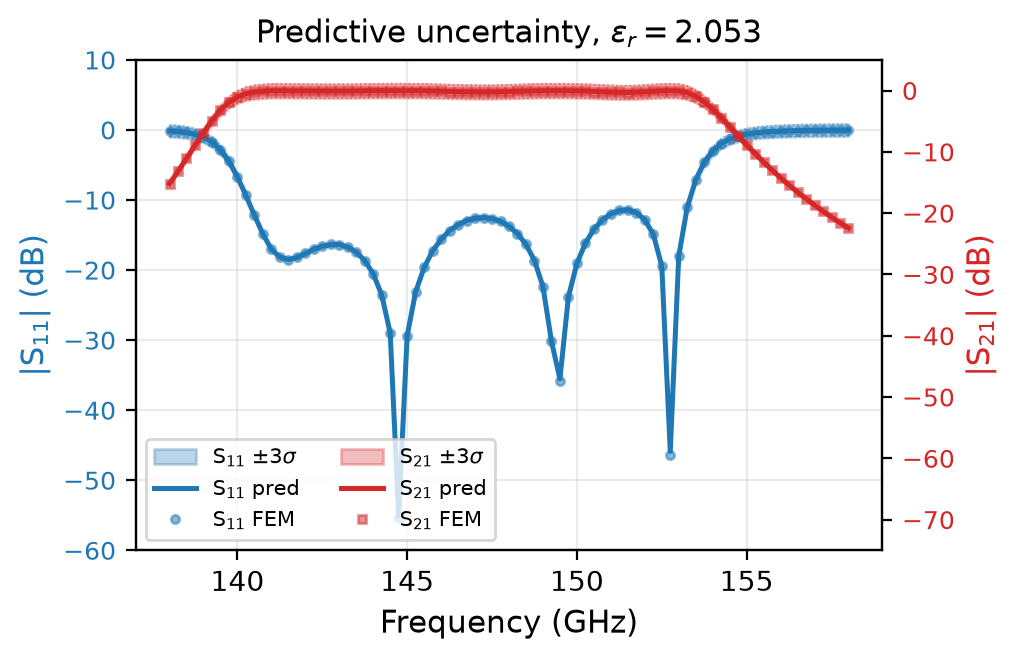
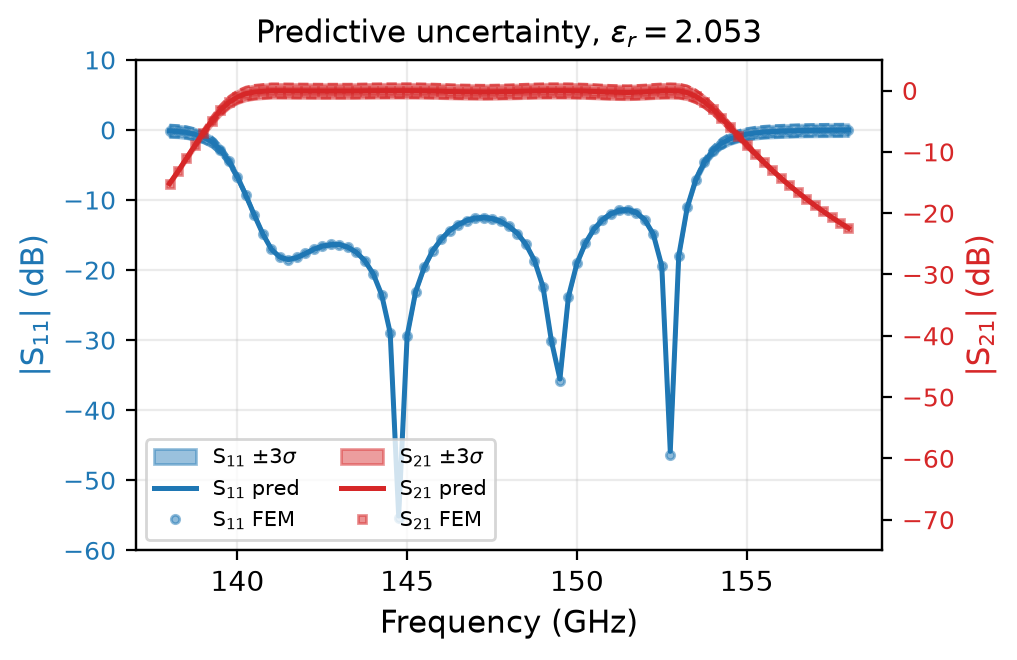
Improve CI visibility: alpha=0.45, dashed edges lw=1.0

diff --git a/paper/gen_fig2.py b/paper/gen_fig2.py
@@ -50,9 +50,9 @@ for ax_idx, ev in enumerate(pick):
 
     # ── S11 on left axis ──
     ax1.fill_between(f_ghz, s11_dB - 3 * s11_sig, s11_dB + 3 * s11_sig,
-                     alpha=0.3, color="C0", label=r"S$_{11}$ $\pm 3\sigma$")
-    ax1.plot(f_ghz, s11_dB - 3 * s11_sig, ":", color="C0", lw=0.6, alpha=0.5)
-    ax1.plot(f_ghz, s11_dB + 3 * s11_sig, ":", color="C0", lw=0.6, alpha=0.5)
+                     alpha=0.45, color="C0", label=r"S$_{11}$ $\pm 3\sigma$")
+    ax1.plot(f_ghz, s11_dB - 3 * s11_sig, "--", color="C0", lw=1.0, alpha=0.7)
+    ax1.plot(f_ghz, s11_dB + 3 * s11_sig, "--", color="C0", lw=1.0, alpha=0.7)
     ax1.plot(f_ghz, s11_dB, "-", color="C0", lw=1.8, label=r"S$_{11}$ pred")
     ax1.plot(f_ghz, s11_true_dB, "o", color="C0", ms=3, alpha=0.5, label=r"S$_{11}$ FEM")
     ax1.set_ylabel(r"|S$_{11}$| (dB)", fontsize=11, color="C0")
@@ -61,9 +61,9 @@ for ax_idx, ev in enumerate(pick):
 
     # ── S21 on right axis ──
     ax2.fill_between(f_ghz, s21_dB - 3 * s21_sig, s21_dB + 3 * s21_sig,
-                     alpha=0.3, color="C3", label=r"S$_{21}$ $\pm 3\sigma$")
-    ax2.plot(f_ghz, s21_dB - 3 * s21_sig, ":", color="C3", lw=0.6, alpha=0.5)
-    ax2.plot(f_ghz, s21_dB + 3 * s21_sig, ":", color="C3", lw=0.6, alpha=0.5)
+                     alpha=0.45, color="C3", label=r"S$_{21}$ $\pm 3\sigma$")
+    ax2.plot(f_ghz, s21_dB - 3 * s21_sig, "--", color="C3", lw=1.0, alpha=0.7)
+    ax2.plot(f_ghz, s21_dB + 3 * s21_sig, "--", color="C3", lw=1.0, alpha=0.7)
     ax2.plot(f_ghz, s21_dB, "-", color="C3", lw=1.8, label=r"S$_{21}$ pred")
     ax2.plot(f_ghz, s21_true_dB, "s", color="C3", ms=3, alpha=0.5, label=r"S$_{21}$ FEM")
     ax2.set_ylabel(r"|S$_{21}$| (dB)", fontsize=11, color="C3")